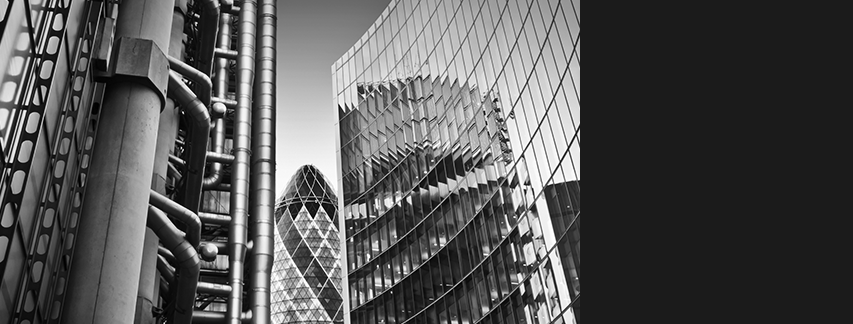
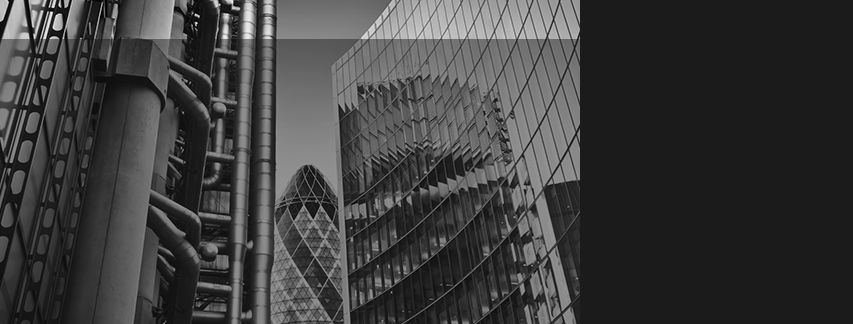
12

diff --git a/fistPage/html/home1.html b/fistPage/html/home1.html
@@ -42,7 +42,7 @@
 							<a href="#">云票管理</a>
 						</li>
 					</div>
-					<div class="span1 div-height-45">
+					<div class="span1 div-height-45" style="width: 80px;">
 						<li>
 							<a href="#">供应商维护</a>
 						</li>
@@ -80,7 +80,7 @@
         	时间：2017-02-07
         	描述：内容区域
         -->
-		<div class="container-fluid content-main">
+		<div class="container content-main">
 			<div class="row-fluid">
 				<div></div>
 				<div class="span12 backg-white notice-padding">
@@ -132,7 +132,7 @@
 						<div class="row-fluid">
 							<div class="span9" style="position:relative;">
 								<img src="../img/background-black.png" style="width: 855px;height: 332px;" />
-								<div style="position: absolute; top: 90px; left: 20px;background-color: #000000;opacity:0.47;width: 50%;height: 60%;z-index: 9996;">
+								<div style="position: absolute; top: 90px; left: 20px;width: 50%;height: 60%;z-index: 9996;">
 									<div class="text-center padding-10-20">
 										<span class="color-white"><strong>某某核心企业有限公司</strong></span>
 										<br>
@@ -202,12 +202,13 @@
 				</div>
 			</div>
 			<div class="panel-footer">
-				<div style="background-color: #292929;width: 100%;">
-					<span class="color-white" style="padding-left: 11%;">关注我们</span>
+				<div style="background-color: #292929;width: 100%;padding-right: 20px;">
+				<div class="container">
+					<span class="color-white" style="padding-left: 2.5%;">关注我们</span>
 					<img class="padding-14-26" src="../img/payh_ewm.png" />
 					<img class="padding-14-26" src="../img/rightsmlogin20160613.png" />
 					<img class="padding-14-26" src="../img/wxgzh.png" />
-					<div class="pull-right" style="line-height: 97px;padding-right: 6%;">
+					<div class="pull-right" style="line-height: 97px;">
 						<span class="color-white"> 友情链接 :&nbsp;&nbsp;</span>
 						<span style="color: #686868;">
 						<a href="#">征信中心</a>&nbsp;&nbsp;|&nbsp;&nbsp;
@@ -215,6 +216,7 @@
 						<a href="#">中国商务部</a>&nbsp;&nbsp;|&nbsp;&nbsp;
 					</span>
 					</div>
+				</div>
 				</div>
 				<div class="text-center" style="background-color: #E95603;width: 100%;padding: 10px;"><strong>copyright©2016 ALL Rights Reserved 平安银行|平安金融 版权所有</strong></div>
 			</div>

diff --git a/fistPage/css/myStyle.css b/fistPage/css/myStyle.css
@@ -7,6 +7,9 @@ body{
 	width：100%；
 	overflow:scroll;
 }
+.container{
+	width: 1080px;
+}
 .header-color{
 	background-color: #ea5504;
 }
